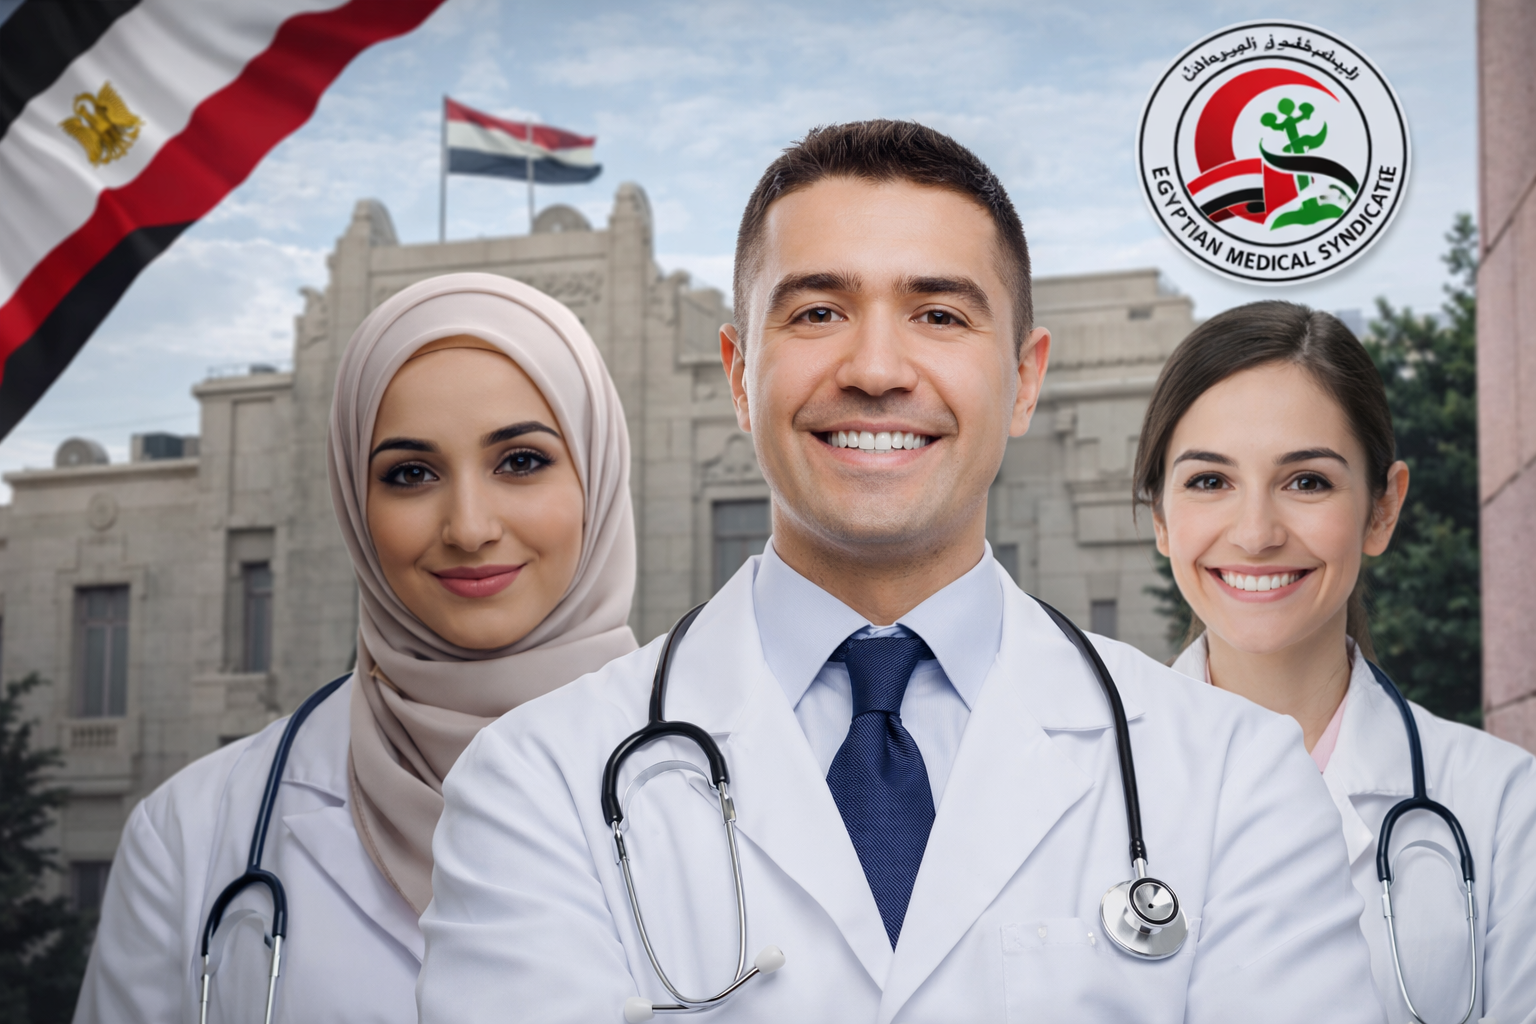
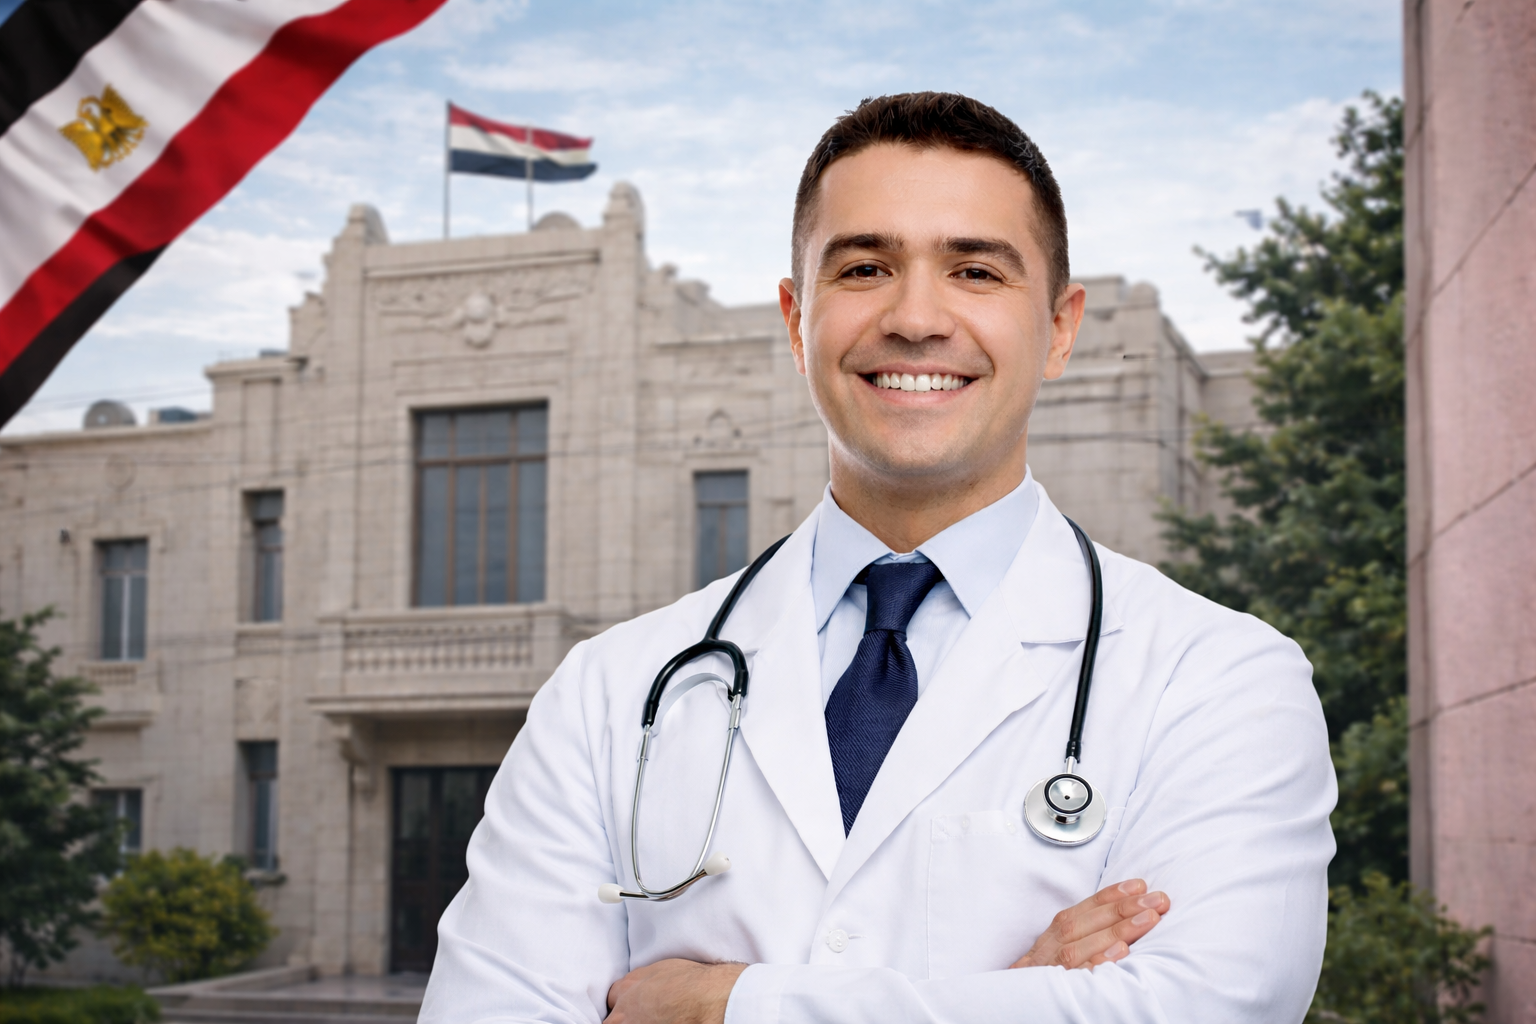
commit

diff --git a/resources/css/filament/manage/theme.css b/resources/css/filament/manage/theme.css
@@ -47,6 +47,27 @@ html[dir="rtl"] .fi-body.manage-login {
     color: #f8f8f9;
 }
 
+.fi-body.manage-login .fi-simple-header {
+    display: flex;
+    justify-content: center;
+    align-items: center;
+    margin-bottom: 1rem;
+}
+
+.fi-body.manage-login .manage-login-brand {
+    display: flex;
+    justify-content: center;
+    width: 100%;
+}
+
+.fi-body.manage-login .manage-login-brand-logo {
+    width: clamp(130px, 16vw, 220px);
+    max-width: 100%;
+    height: auto;
+    object-fit: contain;
+    filter: drop-shadow(0 12px 22px rgba(0, 0, 0, 0.35));
+}
+
 .fi-body.manage-login .fi-input-wrp {
     background: rgba(255, 255, 255, 0.12);
     border: 1px solid rgba(255, 255, 255, 0.22);

diff --git a/app/Filament/Pages/Auth/ManageLogin.php b/app/Filament/Pages/Auth/ManageLogin.php
@@ -3,10 +3,30 @@
 namespace App\Filament\Pages\Auth;
 
 use Filament\Auth\Pages\Login;
+use Illuminate\Contracts\Support\Htmlable;
+use Illuminate\Support\HtmlString;
 
 class ManageLogin extends Login
 {
     protected array $extraBodyAttributes = [
         'class' => 'manage-login',
     ];
+
+    public function hasLogo(): bool
+    {
+        return false;
+    }
+
+    public function getHeading(): string | Htmlable | null
+    {
+        if (filled($this->userUndertakingMultiFactorAuthentication)) {
+            return parent::getHeading();
+        }
+
+        return new HtmlString(sprintf(
+            '<div class="manage-login-brand"><img src="%s" alt="%s" class="manage-login-brand-logo" loading="lazy" decoding="async"></div>',
+            e(asset('assets/ems-logo.png')),
+            e(__('Registration Request')),
+        ));
+    }
 }
